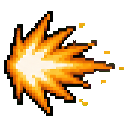
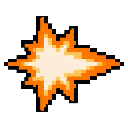
feat: add animated Ralphy ImageGen pack

diff --git a/scripts/build_ralphy_atlas.py b/scripts/build_ralphy_atlas.py
@@ -1,0 +1,219 @@
+#!/usr/bin/env python3
+# /// script
+# requires-python = ">=3.10"
+# dependencies = ["Pillow==12.2.0"]
+# ///
+"""Build and validate the ImageGen Ralphy combat runtime pack."""
+
+from __future__ import annotations
+
+import argparse
+from collections.abc import Sequence
+from pathlib import Path
+
+from PIL import Image
+
+from split_atlas import fit_square, remove_chroma
+
+
+CELL = 128
+ATLAS_COLS = 12
+ATLAS_ROWS = 6
+VIEW_BASES = (0, 4, 8)
+
+MOTION_IDLE = tuple(
+    (view, source_col, 0, base + source_col)
+    for view, base in enumerate(VIEW_BASES)
+    for source_col in range(2)
+)
+MOTION_MOVE = tuple(
+    (view, source_col + 2, 1, base + source_col)
+    for view, base in enumerate(VIEW_BASES)
+    for source_col in range(4)
+)
+ACTIONS_FIRE = tuple(
+    (view, source_col, 2, base + source_col)
+    for view, base in enumerate(VIEW_BASES)
+    for source_col in range(2)
+)
+ACTIONS_RELOAD = tuple(
+    (view, source_col + 2, 3, base + source_col)
+    for view, base in enumerate(VIEW_BASES)
+    for source_col in range(3)
+)
+ACTIONS_HURT = tuple((view, 5, 4, base) for view, base in enumerate(VIEW_BASES))
+
+BODY_MAPPING = (
+    ("motion", MOTION_IDLE),
+    ("motion", MOTION_MOVE),
+    ("actions", ACTIONS_FIRE),
+    ("actions", ACTIONS_RELOAD),
+    ("actions", ACTIONS_HURT),
+)
+REQUIRED_CELLS = {
+    (target_col, target_row)
+    for _, mapping in BODY_MAPPING
+    for _, _, target_row, target_col in mapping
+} | {(source_col, 5) for source_col in range(4)}
+
+
+def load_sheet(path: Path) -> Image.Image:
+    image = Image.open(path)
+    image.load()
+    return image if image.mode == "RGBA" else remove_chroma(image)
+
+
+def grid_cell(image: Image.Image, col: int, row: int, cols: int, rows: int) -> Image.Image:
+    return image.crop(
+        (
+            round(col * image.width / cols),
+            round(row * image.height / rows),
+            round((col + 1) * image.width / cols),
+            round((row + 1) * image.height / rows),
+        )
+    )
+
+
+def normalize_body_cell(cell: Image.Image) -> Image.Image:
+    scale = min(CELL / cell.width, CELL / cell.height)
+    width = max(1, round(cell.width * scale))
+    height = max(1, round(cell.height * scale))
+    resized = cell.resize((width, height), Image.Resampling.NEAREST)
+    output = Image.new("RGBA", (CELL, CELL), (0, 0, 0, 0))
+    source_anchor_x = width / 2
+    source_anchor_y = height * (74 / 128)
+    output.alpha_composite(resized, (round(64 - source_anchor_x), round(74 - source_anchor_y)))
+    return output
+
+
+def require_frame(cell: Image.Image, family: str, col: int, row: int) -> None:
+    if cell.getchannel("A").getbbox() is None:
+        raise ValueError(f"required frame is empty: {family} column {col}, row {row}")
+
+
+def build_ralphy_atlas(motion: Path, actions: Path, death: Path, output: Path) -> None:
+    sheets = {"motion": load_sheet(motion), "actions": load_sheet(actions)}
+    atlas = Image.new("RGBA", (ATLAS_COLS * CELL, ATLAS_ROWS * CELL), (0, 0, 0, 0))
+
+    for family, mapping in BODY_MAPPING:
+        sheet = sheets[family]
+        for source_row, source_col, target_row, target_col in mapping:
+            cell = grid_cell(sheet, source_col, source_row, 6, 3)
+            require_frame(cell, family, source_col, source_row)
+            atlas.alpha_composite(normalize_body_cell(cell), (target_col * CELL, target_row * CELL))
+
+    death_sheet = load_sheet(death)
+    for source_col in range(4):
+        cell = grid_cell(death_sheet, source_col, 0, 4, 1)
+        require_frame(cell, "death", source_col, 0)
+        atlas.alpha_composite(normalize_body_cell(cell), (source_col * CELL, 5 * CELL))
+
+    output.parent.mkdir(parents=True, exist_ok=True)
+    atlas.save(output)
+
+
+def build_effect_sprites(
+    source: Path,
+    revolver_out: Path,
+    projectile_out: Path,
+    muzzle_out: Path,
+) -> None:
+    sheet = load_sheet(source)
+    for col, destination in enumerate((revolver_out, projectile_out, muzzle_out)):
+        cell = grid_cell(sheet, col, 0, 3, 1)
+        destination.parent.mkdir(parents=True, exist_ok=True)
+        fit_square(cell, CELL).save(destination)
+
+
+def has_green_spill(image: Image.Image) -> bool:
+    return any(
+        alpha and green > 110 and green - max(red, blue) > 18
+        for red, green, blue, alpha in image.convert("RGBA").get_flattened_data()
+    )
+
+
+def validate_runtime_pack(atlas_path: Path, effect_paths: Sequence[Path]) -> list[str]:
+    errors: list[str] = []
+    atlas = Image.open(atlas_path)
+    atlas.load()
+
+    if atlas.mode != "RGBA":
+        errors.append("atlas must be RGBA")
+    if atlas.size != (ATLAS_COLS * CELL, ATLAS_ROWS * CELL):
+        errors.append(f"atlas must be {ATLAS_COLS * CELL} x {ATLAS_ROWS * CELL}")
+
+    rgba = atlas.convert("RGBA")
+    if any(
+        rgba.getpixel(point)[3] != 0
+        for point in ((0, 0), (rgba.width - 1, 0), (0, rgba.height - 1), (rgba.width - 1, rgba.height - 1))
+    ):
+        errors.append("outer corners must be transparent")
+    if has_green_spill(rgba):
+        errors.append("chroma green survived")
+
+    if rgba.size == (ATLAS_COLS * CELL, ATLAS_ROWS * CELL):
+        for row in range(ATLAS_ROWS):
+            for col in range(ATLAS_COLS):
+                occupied = grid_cell(rgba, col, row, ATLAS_COLS, ATLAS_ROWS).getchannel("A").getbbox() is not None
+                if (col, row) in REQUIRED_CELLS and not occupied:
+                    errors.append(f"required atlas cell is empty: column {col}, row {row}")
+                elif (col, row) not in REQUIRED_CELLS and occupied:
+                    errors.append(f"unused atlas cell is not empty: column {col}, row {row}")
+
+    for path in effect_paths:
+        effect = Image.open(path)
+        effect.load()
+        if effect.mode != "RGBA" or effect.size != (CELL, CELL):
+            errors.append(f"effect sprite must be 128 x 128 RGBA: {path}")
+        if has_green_spill(effect):
+            errors.append("chroma green survived")
+    return errors
+
+
+def checkerboard(size: tuple[int, int]) -> Image.Image:
+    image = Image.new("RGBA", size, "#15171c")
+    pixels = image.load()
+    for y in range(size[1]):
+        for x in range(size[0]):
+            if (x // 16 + y // 16) % 2:
+                pixels[x, y] = (40, 44, 52, 255)
+    return image
+
+
+def build_contact_sheet(atlas_path: Path, effect_paths: Sequence[Path], output: Path) -> None:
+    atlas = Image.open(atlas_path).convert("RGBA")
+    contact = checkerboard((atlas.width, atlas.height + CELL + 32))
+    contact.alpha_composite(atlas)
+    for index, path in enumerate(effect_paths):
+        contact.alpha_composite(Image.open(path).convert("RGBA"), (16 + index * (CELL + 16), atlas.height + 16))
+    output.parent.mkdir(parents=True, exist_ok=True)
+    contact.save(output)
+
+
+def main() -> None:
+    parser = argparse.ArgumentParser(description=__doc__)
+    parser.add_argument("--motion", type=Path, required=True)
+    parser.add_argument("--actions", type=Path, required=True)
+    parser.add_argument("--death", type=Path, required=True)
+    parser.add_argument("--weapon-effects", type=Path, required=True)
+    parser.add_argument("--atlas-out", type=Path, required=True)
+    parser.add_argument("--revolver-out", type=Path, required=True)
+    parser.add_argument("--projectile-out", type=Path, required=True)
+    parser.add_argument("--muzzle-out", type=Path, required=True)
+    parser.add_argument("--contact-sheet-out", type=Path, required=True)
+    args = parser.parse_args()
+
+    effect_paths = (args.revolver_out, args.projectile_out, args.muzzle_out)
+    build_ralphy_atlas(args.motion, args.actions, args.death, args.atlas_out)
+    build_effect_sprites(args.weapon_effects, *effect_paths)
+    errors = validate_runtime_pack(args.atlas_out, effect_paths)
+    if errors:
+        for error in errors:
+            print(f"error: {error}")
+        raise SystemExit(1)
+    build_contact_sheet(args.atlas_out, effect_paths, args.contact_sheet_out)
+    print("runtime pack validation passed")
+
+
+if __name__ == "__main__":
+    main()

diff --git a/scripts/test_build_ralphy_atlas.py b/scripts/test_build_ralphy_atlas.py
@@ -1,0 +1,127 @@
+from pathlib import Path
+from tempfile import TemporaryDirectory
+from unittest import TestCase, main
+
+from PIL import Image, ImageDraw
+
+from build_ralphy_atlas import (
+    build_effect_sprites,
+    build_ralphy_atlas,
+    validate_runtime_pack,
+)
+
+
+SOURCE_CELL = 64
+
+
+def make_sheet(
+    path: Path,
+    cols: int,
+    rows: int,
+    filled: set[int],
+    x_offsets: dict[int, int] | None = None,
+) -> Path:
+    image = Image.new("RGB", (cols * SOURCE_CELL, rows * SOURCE_CELL), "#00ff00")
+    draw = ImageDraw.Draw(image)
+    for index in filled:
+        col, row = index % cols, index // cols
+        left = col * SOURCE_CELL + (x_offsets or {}).get(index, 16)
+        top = row * SOURCE_CELL + 12
+        draw.rectangle((left, top, left + 15, top + 39), fill="#f5f5f4")
+    image.save(path)
+    return path
+
+
+def atlas_cell(atlas: Image.Image, col: int, row: int) -> Image.Image:
+    return atlas.crop((col * 128, row * 128, (col + 1) * 128, (row + 1) * 128))
+
+
+def occupied_cell_count(atlas: Image.Image) -> int:
+    return sum(
+        atlas_cell(atlas, col, row).getchannel("A").getbbox() is not None
+        for row in range(6)
+        for col in range(12)
+    )
+
+
+def alpha_center_x(cell: Image.Image) -> float:
+    bounds = cell.getchannel("A").getbbox()
+    if bounds is None:
+        raise AssertionError("expected occupied atlas cell")
+    return (bounds[0] + bounds[2]) / 2
+
+
+def image_size(path: Path) -> tuple[int, int]:
+    with Image.open(path) as image:
+        return image.size
+
+
+class RalphyAtlasTests(TestCase):
+    def test_builds_exact_fixed_cell_runtime_atlas(self) -> None:
+        with TemporaryDirectory() as directory:
+            root = Path(directory)
+            motion = make_sheet(root / "motion.png", 6, 3, set(range(18)))
+            actions = make_sheet(root / "actions.png", 6, 3, set(range(18)))
+            death = make_sheet(root / "death.png", 4, 1, set(range(4)))
+            output = root / "atlas.png"
+            build_ralphy_atlas(motion, actions, death, output)
+            atlas = Image.open(output)
+            self.assertEqual(atlas.mode, "RGBA")
+            self.assertEqual(atlas.size, (1536, 768))
+            self.assertEqual(occupied_cell_count(atlas), 40)
+
+    def test_preserves_one_transform_instead_of_recentering_frames(self) -> None:
+        with TemporaryDirectory() as directory:
+            root = Path(directory)
+            motion = make_sheet(root / "motion.png", 6, 3, set(range(18)), {0: 4, 1: 36})
+            actions = make_sheet(root / "actions.png", 6, 3, set(range(18)))
+            death = make_sheet(root / "death.png", 4, 1, set(range(4)))
+            output = root / "atlas.png"
+            build_ralphy_atlas(motion, actions, death, output)
+            atlas = Image.open(output)
+            self.assertNotEqual(alpha_center_x(atlas_cell(atlas, 0, 0)), alpha_center_x(atlas_cell(atlas, 1, 0)))
+
+    def test_extracts_three_square_effect_sprites(self) -> None:
+        with TemporaryDirectory() as directory:
+            root = Path(directory)
+            source = make_sheet(root / "effects.png", 3, 1, {0, 1, 2})
+            outputs = [root / "gun.png", root / "soul.png", root / "flash.png"]
+            build_effect_sprites(source, *outputs)
+            self.assertTrue(all(image_size(path) == (128, 128) for path in outputs))
+
+    def test_rejects_empty_required_frame(self) -> None:
+        with TemporaryDirectory() as directory:
+            root = Path(directory)
+            motion = make_sheet(root / "motion.png", 6, 3, set(range(1, 18)))
+            actions = make_sheet(root / "actions.png", 6, 3, set(range(18)))
+            death = make_sheet(root / "death.png", 4, 1, set(range(4)))
+            with self.assertRaisesRegex(ValueError, "required frame is empty"):
+                build_ralphy_atlas(motion, actions, death, root / "atlas.png")
+
+    def test_validation_rejects_corners_and_green_spill(self) -> None:
+        with TemporaryDirectory() as directory:
+            root = Path(directory)
+            atlas = Image.new("RGBA", (1536, 768), (0, 0, 0, 0))
+            atlas.putpixel((0, 0), (245, 245, 244, 255))
+            corner = root / "corner.png"
+            atlas.save(corner)
+            self.assertIn("outer corners must be transparent", validate_runtime_pack(corner, ()))
+
+            atlas.putpixel((0, 0), (0, 0, 0, 0))
+            atlas.putpixel((64, 64), (0, 255, 0, 255))
+            green = root / "green.png"
+            atlas.save(green)
+            self.assertIn("chroma green survived", validate_runtime_pack(green, ()))
+
+            atlas.putpixel((64, 64), (0, 0, 0, 0))
+            clean = root / "clean.png"
+            atlas.save(clean)
+            effect = Image.new("RGBA", (128, 128), (0, 0, 0, 0))
+            effect.putpixel((64, 64), (0, 255, 0, 255))
+            effect_path = root / "effect.png"
+            effect.save(effect_path)
+            self.assertIn("chroma green survived", validate_runtime_pack(clean, (effect_path,)))
+
+
+if __name__ == "__main__":
+    main()